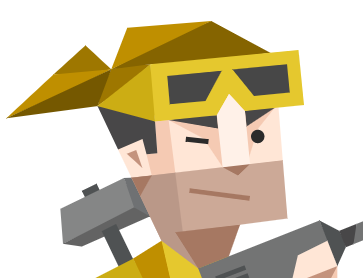
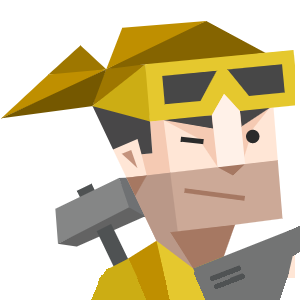
added more images for about us section, brushed up some css

diff --git a/HTML/index.html b/HTML/index.html
@@ -98,7 +98,7 @@
                     <h4>Geoff</h4>
                 </div>
                 <div class="card-body">
-                    <img class="team-member-photo card-img-bottom" src="../Images/smiley.jpg" alt="Card image cap">
+                    <img class="team-member-photo card-img-bottom" src="../Images/Geoff.png" alt="Card image cap">
                 </div>
             </div>
             <div class="card">
@@ -114,7 +114,7 @@
                     <h4>Jon S</h4>
                 </div>
                 <div class="card-body">
-                    <img class="team-member-photo card-img-bottom" src="../Images/smiley.jpg" alt="Card image cap">
+                    <img class="team-member-photo card-img-bottom" src="../Images/Jon.png" alt="Card image cap">
                 </div>
             </div>
             <div class="card">
@@ -127,14 +127,10 @@
             </div>
         </div>
         <div>
-            <p>Lorem ipsum dolor sit amet, consectetur adipiscing elit. Morbi scelerisque nibh sit amet ex varius
-                mollis. Phasellus dapibus libero at sapien vulputate commodo. Quisque ultrices velit sit amet metus
-                condimentum mollis. Nam tristique at eros quis volutpat. Integer et orci arcu. Fusce eu lectus eu lorem
-                sodales varius. Maecenas eu nulla et sem malesuada condimentum et ac odio. Nulla ut urna lectus.
-                Vestibulum ante ipsum primis in faucibus orci luctus et ultrices posuere cubilia curae; In hendrerit
-                vehicula eros, quis finibus orci porttitor nec. Suspendisse accumsan risus justo, eget iaculis mi
-                lacinia egestas. Curabitur at nibh varius tellus dictum facilisis sit amet eu elit. Fusce vitae sem
-                vitae sapien egestas pharetra ac a lacus.</p>
+            <p>At Gromegle, we believe there's a better way to do networking. A more casual, fun way where people can
+                meet up and make new friends during this epidemic. Our mission is to help others cope with lonelyness
+                and distract from the ongoing quarentine.
+            </p>
         </div>
     </section>
     <footer>

diff --git a/CSS/index.css b/CSS/index.css
@@ -13,7 +13,7 @@
 button{
     color: white;
     background-color: orange;
-    border: 1px solid orangered;
+    border: 2px solid yellow;
 }
 .container{
     display: flex;
@@ -22,14 +22,12 @@ button{
 }
 
 .table{
-    border: 1px solid black;
+    border-left: 1px solid black;
     box-shadow: 1px 2px 1px;
     border-collapse: collapse;
     margin-top: 5%;
     max-width: 300px;
-}
-#help{
-    background-color: orangered;
+    border-radius: 20% 0% ;
 }
 .chat{
     width: 200px;   
@@ -52,12 +50,8 @@ h1{
     float: right;
 }
 .team-member-photo{
-    max-width: 250px;
     display: block;
-    margin-left: auto;
-    margin-right: auto;
     width: 100%;
-    
 }
 .card{
     margin-top: 15px;
@@ -90,7 +84,12 @@ footer{
   cursor: pointer;
   opacity: 0.8;
 }
-
+p{
+    font-size: 18pt;
+    margin-left: 15%;
+    margin-right: 15%;
+    margin-top: 5%;
+}
 /* The popup form - hidden by default */
 .form-popup {
   display: none;

diff --git a/JS/index.js b/JS/index.js
@@ -22,7 +22,6 @@ firebase.auth().onAuthStateChanged(function (user) {
             if (doc && doc.exists) {
                 const myData = doc.data();
                 const friends = myData.friends;
-                console.log(friends);
                 friends.forEach(friend => {
                     let first = '<tr><td scope="row">';
                     let last = "</td></tr>";
@@ -71,6 +70,7 @@ function addFriend() {
             });
         })
         .catch(function (error) {
+            alert("noone by that email exists");
             console.log("Error getting documents: ", error);
         });
 }
